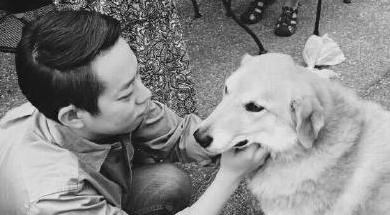
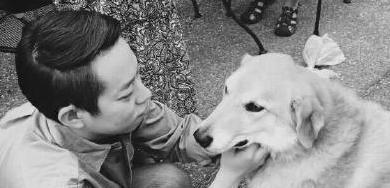
Working on the portfolio section

diff --git a/public/style.css b/public/style.css
@@ -141,7 +141,7 @@
     opacity: 1 !important; }
 
 .about {
-  height: 100vh;
+  min-height: 100vh;
   display: flex;
   flex-direction: column;
   justify-content: center;
@@ -150,14 +150,13 @@
   .about__profile {
     width: 25rem;
     margin-bottom: 5rem;
-    filter: brightness(0.7); }
+    filter: saturate(0.5) brightness(0.7); }
   .about__intro {
     font-size: 2rem;
     width: 50%; }
 
 .portfolio {
-  height: 100vh;
-  background-color: #eeeeee;
+  background-color: #f8f8f8;
   display: flex;
   flex-direction: column;
   justify-content: center;
@@ -166,7 +165,8 @@
 .project-container {
   display: flex;
   flex-wrap: wrap;
-  justify-content: center; }
+  width: 80%;
+  margin-bottom: 3rem; }
 
 .heading__secondary {
   font-size: 4rem;
@@ -303,27 +303,34 @@
   background-color: gray; }
 
 .project {
-  position: relative; }
+  position: relative;
+  width: calc(100% / 3 - 4rem);
+  margin: 2rem; }
   .project__caption {
     display: grid;
     grid-template-columns: 1fr 1fr 1fr;
     grid-template-rows: 1fr 3fr 1fr 1.5fr;
     grid-template-areas: ". . ." "description description description" ". button ." ". . .";
-    width: 30rem;
-    height: 30rem;
-    background-color: transparent;
+    width: 100%;
+    height: 25rem;
     position: absolute;
-    top: 2rem;
-    left: 2rem;
+    top: 0;
+    left: 0;
     transition: all 0.5s ease-in-out;
     color: white;
     opacity: 0; }
   .project__cover-image {
-    width: 30rem;
-    height: 30rem;
-    padding: 2rem;
+    width: 100%;
+    height: 25rem;
     transition: all 0.5s ease-in-out;
-    filter: brightness(90%) grayscale(100%); }
+    filter: saturate(0.5); }
+  .project__gradient-cover {
+    position: absolute;
+    background: linear-gradient(to bottom, rgba(0, 0, 0, 0), rgba(0, 0, 0, 0.3));
+    width: 100%;
+    height: 25rem;
+    top: 0;
+    left: 0; }
   .project__description {
     grid-area: description;
     display: flex;
@@ -587,7 +594,7 @@
   justify-self: center;
   align-self: center;
   margin-bottom: 0.5rem;
-  font-size: 2rem;
+  font-size: 1.5rem;
   grid-area: copyright; }
   .copyright__name {
     text-decoration: none;
@@ -697,7 +704,6 @@
 * {
   margin: 0;
   padding: 0;
-  box-sizing: border-box;
   box-sizing: inherit; }
 
 html {

diff --git a/src/app/Portfolio/Portfolio.js b/src/app/Portfolio/Portfolio.js
@@ -1,4 +1,4 @@
-import React, { useState } from "react";
+import React from "react";
 import Project from "./Project";
 
 const projects = [
@@ -10,9 +10,9 @@ const projects = [
       name: "TWIDDLER",
       images: [
         "./assets/images/project-image/twiddler/image 2.png",
-        "./assets/images/project-image/twiddler/image 1.png",
+        "./assets/images/project-image/twiddler/twiddler.png",
         "./assets/images/project-image/twiddler/image 2.png",
-        "./assets/images/project-image/twiddler/image 1.png",
+        "./assets/images/project-image/twiddler/twiddler.png",
       ],
       techStack: "jQuery, HTML, CSS",
       description: `Twiddler is one of the first apps I made since I started coding. The app mimics a Twitter feed and generates random messages from time to time. This app is probably the simplest program I will ever code but the sense of achievement and satisfaction it gave me was the greatest.`,
@@ -46,6 +46,25 @@ const projects = [
       site: null,
       githubSrc: "https://github.com/objectobject-hr/David-service",
     },
+  },
+  {
+    projectName: "SYSTEM DESIGN",
+    imgSrc: "./assets/images/project-image/system-design/system-design.png",
+    shortDescription: "Full Stack Web Application",
+    modalProperties: {
+      name: "SYSTEM DESIGN",
+      images: [
+        "./assets/images/project-image/system-design/image 1.png",
+        "./assets/images/project-image/system-design/image 2.png",
+      ],
+      techStack: "React, Node.js, MongoDB, Nginx, loader.io",
+      description: "David is awesome",
+      site: null,
+      githubSrc: "https://github.com/objectobject-hr/sdc-service-david",
+    },
+  },
+  {
+    imgSrc: "./assets/images/testing.png",
   },
 ];
 

diff --git a/src/app/Portfolio/Project/project.scss b/src/app/Portfolio/Project/project.scss
@@ -1,5 +1,7 @@
 .project {
   position: relative;
+  width: calc(100% / 3 - 4rem);
+  margin: 2rem;
 
   &__caption {
     display: grid;
@@ -10,12 +12,12 @@
       "description description description"
       ". button ."
       ". . .";
-    width: 30rem;
-    height: 30rem;
-    background-color: transparent;
+    width: 100%;
+    height: 25rem;
+
     position: absolute;
-    top: 2rem;
-    left: 2rem;
+    top: 0;
+    left: 0;
 
     transition: all 0.5s ease-in-out;
     color: white;
@@ -23,11 +25,23 @@
   }
 
   &__cover-image {
-    width: 30rem;
-    height: 30rem;
-    padding: 2rem;
+    width: 100%;
+    height: 25rem;
     transition: all 0.5s ease-in-out;
-    filter: brightness(90%) grayscale(100%);
+    filter: saturate(0.5);
+  }
+
+  &__gradient-cover {
+    position: absolute;
+    background: linear-gradient(
+      to bottom,
+      rgba(0, 0, 0, 0),
+      rgba(0, 0, 0, 0.3)
+    );
+    width: 100%;
+    height: 25rem;
+    top: 0;
+    left: 0;
   }
 
   &__description {

diff --git a/src/app/Portfolio/Project/Project.js b/src/app/Portfolio/Project/Project.js
@@ -35,6 +35,7 @@ const ConnectedProject = ({
   return (
     <figure className="project">
       <img className="project__cover-image" alt="project cover" src={imgSrc} />
+      <div className="project__gradient-cover" />
       <figcaption className="project__caption">
         <div className="project__description">
           <h3 className="project__name">&nbsp;{projectName}</h3>

diff --git a/src/app/Portfolio/Portfolio.scss b/src/app/Portfolio/Portfolio.scss
@@ -1,6 +1,5 @@
 .portfolio {
-  height: 100vh;
-  background-color: #eeeeee;
+  background-color: #f8f8f8;
   display: flex;
   flex-direction: column;
   justify-content: center;
@@ -10,7 +9,8 @@
 .project-container {
   display: flex;
   flex-wrap: wrap;
-  justify-content: center;
+  width: 80%;
+  margin-bottom: 3rem;
 }
 
 .heading__secondary {

diff --git a/src/app/AboutMe/AboutMe.scss b/src/app/AboutMe/AboutMe.scss
@@ -1,5 +1,5 @@
 .about {
-  height: 100vh;
+  min-height: 100vh;
   display: flex;
   flex-direction: column;
   justify-content: center;
@@ -9,7 +9,7 @@
   &__profile {
     width: 25rem;
     margin-bottom: 5rem;
-    filter: brightness(0.7);
+    filter: saturate(0.5) brightness(0.7);
   }
 
   &__intro {

diff --git a/src/app/AboutMe/AboutMe.js b/src/app/AboutMe/AboutMe.js
@@ -7,7 +7,7 @@ const AboutMe = () => {
 
       <img
         className="about__profile"
-        src="./assets/images/picture/profile.jpeg"
+        src="./assets/images/picture/profile.c.jpeg"
         alt="profile"
       />
 

diff --git a/src/app/Contact/Contact.scss b/src/app/Contact/Contact.scss
@@ -87,7 +87,7 @@
   justify-self: center;
   align-self: center;
   margin-bottom: 0.5rem;
-  font-size: 2rem;
+  font-size: 1.5rem;
   grid-area: copyright;
 
   &__name {

diff --git a/src/main.scss b/src/main.scss
@@ -16,7 +16,7 @@
 * {
   margin: 0;
   padding: 0;
-  box-sizing: border-box;
+  // box-sizing: border-box;
   box-sizing: inherit;
 }
 
